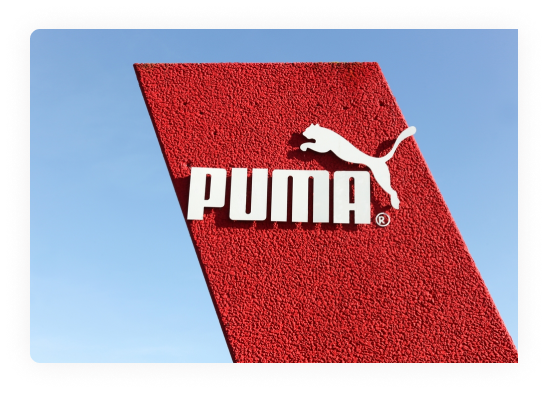
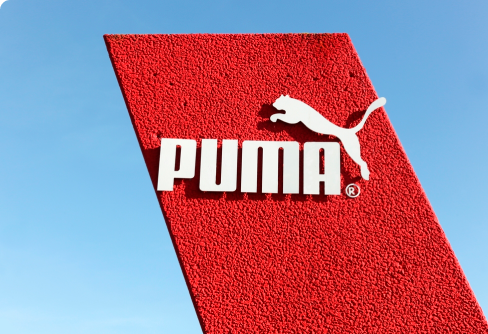
add email

diff --git a/scss/_head.scss b/scss/_head.scss
@@ -816,3 +816,83 @@ hr {
     font-weight: 400;
     margin: 0;
 }
+
+.section-email-container {
+    padding: 40px 20px;
+}
+
+.section-email__img {
+    max-width: 1000px;
+    margin: 0 auto;
+}
+
+.section-email__img img {
+    width: 100%;
+    border-top-left-radius: 12px;
+    border-top-right-radius: 12px;
+}
+
+.section-email__main {
+    padding: 20px;
+    background: #F2F6FB;
+    border-bottom-right-radius: 10px;
+    border-bottom-left-radius: 10px;
+    margin-top: -5px;
+}
+
+.section-email__title {
+    color: $dark;
+    font-size: 31px;
+    font-family: source serif pro;
+    font-weight: 600;
+    margin: 20px 0 0 0;
+}
+
+.section-email__text {
+    color: $secondary;
+    font-size: 18px;
+    font-family: poppins;
+    font-weight: 400;
+    margin: 15px 0 30px 0;
+}
+
+.section-email__form {
+    width: 100%;
+}
+
+.section-email__input {
+    border-top: 1px solid $secondary;
+    border-bottom: 1px solid $secondary;
+    border-left: 1px solid $secondary;
+    border-right: none;
+    border-top-left-radius: 5px;
+    border-bottom-left-radius: 5px;
+    padding: 12px 0 12px 10px;
+    min-width: 190px;
+    background: none;
+    outline: none;
+    position: relative;
+    width: 80%;
+}
+
+.send-btn {
+    color: white;
+    font-size: 14px;
+    font-family: poppins;
+    font-weight: 500;
+    letter-spacing: 0.03em;
+    background: $primary;
+    border: none;
+    padding: 10px 5px;
+    border-top-right-radius: 5px;
+    border-bottom-right-radius: 5px;
+    position: absolute;
+    width: 15%;
+}
+
+.section-email__input::placeholder {
+    color: $secondary;
+    font-size: 14px;
+    font-family: poppins;
+    font-weight: 400;
+}

diff --git a/scss/_media.scss b/scss/_media.scss
@@ -45,6 +45,10 @@
         width: 140px;
         padding-left: 32px;
     }
+
+    .section-email__input {
+        width: 83%;
+    }
 }
 
 @media (min-width: 552px) {
@@ -131,6 +135,43 @@
 
     .section-gallary__nav-container {
         overflow-x: hidden;
+    }
+
+    .section-email-container {
+        display: flex;
+    }
+
+    .section-email__img {
+        margin: 0 0 0 auto;
+    }
+
+    .section-email__img img {
+        border-top-right-radius: 0;
+        border-top-left-radius: 12px;
+        border-bottom-left-radius: 12px;
+        height: 100%;
+    }
+
+    .section-email__main {
+        border-top-right-radius: 12px;
+        border-bottom-right-radius: 12px;
+        border-bottom-left-radius: 0;
+        margin: 0 auto 0 0;
+        width: 500px;
+    }
+
+    .section-email__form {
+        display: flex;
+        margin-top: auto;
+    }
+
+    .section-email__input {
+        flex-grow: 10;
+    }
+
+    .send-btn {
+        position: relative;
+        width: 115px;
     }
 }
 
@@ -436,6 +477,10 @@
     .icon-play3 {
         font-size: 48px;
     }
+
+    .section-email__form {
+        margin-top: 55px;
+    }
 }
 
 @media (min-width: 1022px) {
@@ -460,6 +505,14 @@
     }
 
     .section-testimonials__main {
+        margin-top: 0;
+    }
+
+    .section-email__main {
+        padding: 50px;
+    }
+
+    .section-email__title {
         margin-top: 0;
     }
 }

diff --git a/index.html b/index.html
@@ -779,6 +779,37 @@
 
     </section>
 
+    <div class="section-email">
+
+        <div class="section-email-container">
+
+            <div class="section-email__img">
+
+                <img src="/images/img-3.png" alt="">
+
+            </div>
+
+            <div class="section-email__main">
+
+                <h2 class="section-email__title">Sign up to our Newsletter</h2>
+
+                <p class="section-email__text">Lorem ipsum dolor sit amet, consectetur adipiscing elit. Eu sagittis,
+                    Atiam lorem sed justo amet viverra in a.</p>
+
+                <form action="" class="section-email__form">
+
+                    <input class="section-email__input" type="email" placeholder="Enter your email address">
+
+                    <button class="send-btn">Send</button>
+
+                </form>
+
+            </div>
+
+        </div>
+
+    </div>
+
 
 
 
